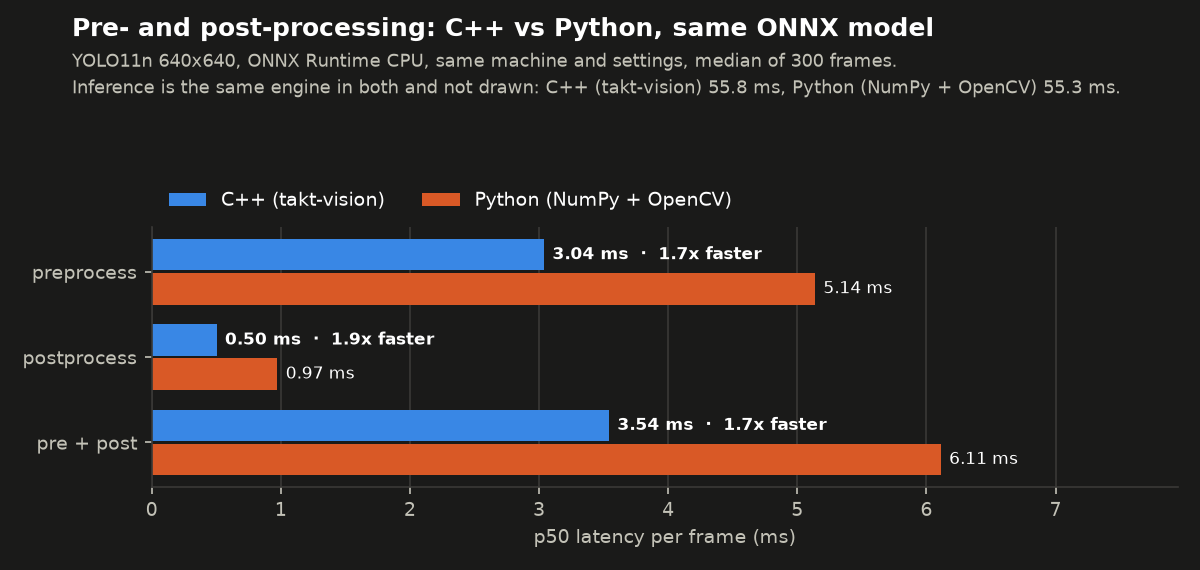
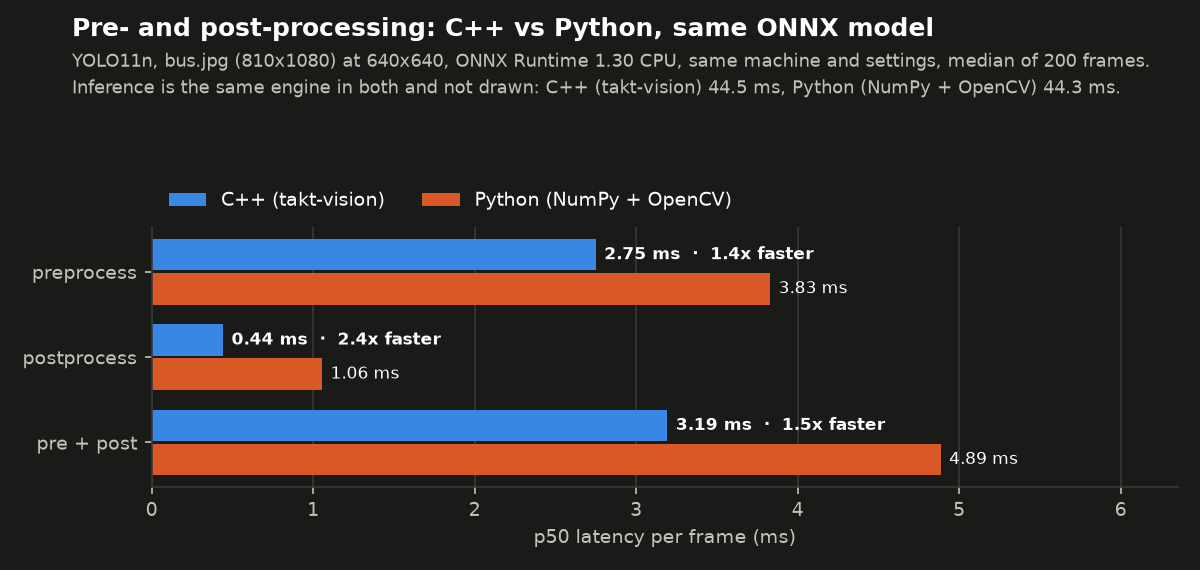
README: C++ vs Python across YOLO11n/s/m, all results from one CI run
- new chart: per-frame latency by model size, stacked by stage, bars labelled
  with their own value and the time C++ saves in the stages takt implements
- results table: postprocess 2.2-2.5x and preprocess 1.1-1.4x faster in C++;
  the fixed ~1-2 ms saving is 3.4 % of a YOLO11n frame, 0.3 % of YOLO11m
- all charts and numbers republished from one run (AMD EPYC 9V74) and the
  CPU named; overload, pipelining (+5 %) and parity updated accordingly

diff --git a/scripts/plot_latency.py b/scripts/plot_latency.py
@@ -197,11 +197,11 @@ def models(args):
                     ax.barh(y, d[key], left=left, height=0.8, color=color, edgecolor=theme["surface"],
                             linewidth=1, label=legend if (i, j) == (0, 0) else None)
                     left += d[key]
-                text = f"{d['total']:.1f} ms"
+                text = f"{left:.1f} ms"  # the bar: sum of the stage medians
                 if impl == "C++":
                     other = data[model, "Python"]
                     saved = (other["preprocess"] + other["postprocess"]) - (d["preprocess"] + d["postprocess"])
-                    text += f"  ·  {saved:.1f} ms saved outside inference"
+                    text += f"  ·  saves {saved:.1f} ms"
                 ax.annotate(text, xy=(left, y), xytext=(5, 0), textcoords="offset points", va="center",
                             fontsize=8, color=theme["text"], fontweight="bold" if impl == "C++" else "normal")
                 ticks.append(y)
@@ -210,9 +210,11 @@ def models(args):
         ax.invert_yaxis()
         ax.set_xlabel("p50 latency per frame (ms): preprocess + inference + postprocess", color=theme["muted"],
                       fontsize=9)
-        ax.margins(x=0.36)
+        ax.margins(x=0.25)
         fig.suptitle(args.title, x=0.06, y=0.97, ha="left", fontsize=12, fontweight="bold", color=theme["text"])
-        fig.text(0.06, 0.915, args.subtitle, ha="left", va="top", fontsize=8.5, color=theme["muted"],
+        note = 'Bars: sum of stage medians. "saves": time saved in pre + post. Inference differs only by noise.'
+        subtitle = f"{args.subtitle}\n{note}" if args.subtitle else note
+        fig.text(0.06, 0.915, subtitle, ha="left", va="top", fontsize=8.5, color=theme["muted"],
                  linespacing=1.5)
         legend = ax.legend(frameon=False, fontsize=9, loc="lower left", bbox_to_anchor=(0, 1.0), ncol=3)
         for text in legend.get_texts():

diff --git a/README.md b/README.md
@@ -66,44 +66,83 @@ OpenCV (`libopencv-dev`) is optional and enables camera/video input and the over
 
 ## Results
 
-All numbers come from the [Demo & benchmarks](.github/workflows/demo.yml) workflow on a
-GitHub-hosted runner (4 vCPU AMD EPYC 7763, Ubuntu 24.04, ONNX Runtime 1.30 CPU).
+Every number and chart below comes from a single run of the
+[Demo & benchmarks](.github/workflows/demo.yml) workflow on a GitHub-hosted runner: 4 vCPU AMD
+EPYC 9V74, Ubuntu 24.04, ONNX Runtime 1.30 on CPU. GitHub assigns different CPU models to
+different runs, so numbers are only compared within one run. An earlier run on an EPYC 7763
+measured the same effects with slightly different magnitudes.
 
-**Latency under overload** (camera 30 fps, detector 40 ms ≈ 25 fps, 20 s):
+### C++ vs Python
+
+Both sides run the same ONNX model through the same ONNX Runtime engine and settings on the same
+image (`bus.jpg`, 810×1080 → 640×640), 200 timed frames each. The Python baseline is typical
+deployment code: `cv2.resize` + `copyMakeBorder` + NumPy for preprocessing, NumPy decoding and
+`cv2.dnn.NMSBoxesBatched` for postprocessing.
+
+<picture>
+  <source media="(prefers-color-scheme: dark)" srcset="docs/assets/cpp_vs_python-dark.png">
+  <img alt="Median preprocessing and postprocessing time per frame, C++ versus Python, on YOLO11n: preprocessing 2.75 vs 3.83 ms, postprocessing 0.44 vs 1.06 ms" src="docs/assets/cpp_vs_python-light.png">
+</picture>
+
+<picture>
+  <source media="(prefers-color-scheme: dark)" srcset="docs/assets/model_sizes-dark.png">
+  <img alt="Per-frame latency by model size, C++ versus Python, stacked by stage: inference dominates and is identical, the C++ saving in preprocessing and postprocessing stays about 1-2 ms" src="docs/assets/model_sizes-light.png">
+</picture>
+
+| Model | Inference, C++ / Python | Pre + post, C++ | Pre + post, Python | Speed-up (pre + post) | Saved per frame |
+|---|---:|---:|---:|---:|---:|
+| YOLO11n | 44.5 / 44.3 ms | 3.19 ms | 4.89 ms | 1.5× | 1.69 ms (3.4 % of the frame) |
+| YOLO11s | 114.7 / 114.2 ms | 3.19 ms | 4.80 ms | 1.5× | 1.61 ms (1.4 % of the frame) |
+| YOLO11m | 331.8 / 329.1 ms | 3.13 ms | 4.03 ms | 1.3× | 0.91 ms (0.3 % of the frame) |
+
+What this shows:
+
+- **Postprocessing is 2.2-2.5× faster in C++** (0.44 ms vs ~1.0 ms): class-major decoding and
+  allocation-free NMS against NumPy plus OpenCV's NMS.
+- **Preprocessing is 1.1-1.4× faster.** takt's fused letterbox is still scalar code, while
+  `cv2.resize` is SIMD-optimised. The margin is narrower than the 1.7× measured on the older
+  EPYC 7763, where NumPy and OpenCV benefit less from wide vector units. A vectorised letterbox
+  is the next item in the [plan](docs/IMPLEMENTATION_PLAN.md).
+- **Inference is identical** by construction (differences are run-to-run noise, under 1 %). The
+  ~1-2 ms C++ saving is fixed per frame, so it matters most for small, fast models: 3.4 % of a
+  YOLO11n frame, 0.3 % of a YOLO11m frame.
+
+The honest summary: for a single model on a CPU, rewriting the glue in C++ buys a few percent.
+takt-vision's bigger contribution is the runtime around inference: bounded latency under load,
+no allocations, and measured tails.
+
+### Latency under overload
+
+Camera 30 fps, detector 40 ms (≈ 25 fps), 20 s. The chart at the top of this page.
 
 | Ingress policy | End-to-end p50 | p99 | Frames dropped |
 |---|---:|---:|---:|
 | `latest` (default) | **57 ms** | **74 ms** | 101 / 600 |
 | `drop-newest`, depth 4 | 266 ms | 281 ms | 96 / 600 |
-| unbounded FIFO (`block`, depth 256) | 2,081 ms, still growing | 4,096 ms | 0 / 600 |
+| unbounded FIFO (`block`, depth 256) | 2,081 ms, still growing | 4,063 ms | 0 / 600 |
 
 With `latest`, a frame waits on average half an inference period plus one inference: the
 theoretical floor for a single detector.
 
-**Correctness vs. Ultralytics** (same ONNX model, `scripts/check_parity.py`): every detection
-matches one-to-one on a portrait and a landscape test image. Boxes agree within **0.55 px** of
-the 640×640 model input (worst case) and scores within **0.004**. The residual comes from OpenCV's
-8-bit resize versus takt's float resize ([investigation](docs/DESIGN_NOTES.md#parity)).
+### Pipelined vs sequential
 
-**Engineering checks on every push:** 86 tests pass on x86-64 and ARM64. ThreadSanitizer
-reports no races across 80 tests, AddressSanitizer and UBSan are clean, and the steady-state
-pipeline makes **0 heap allocations per frame** across all threads.
+Offline on a 795-frame video with YOLO11n: **21.6 fps pipelined vs 20.6 fps sequential (+5 %)**.
+The gain is small because inference is ~93 % of each frame and competes with the other stages
+for the same four cores. The maximum possible gain is (sum of stages) / (slowest stage), which
+is about 1.07× here ([design notes](docs/DESIGN_NOTES.md#pipelining)).
 
-<picture>
-  <source media="(prefers-color-scheme: dark)" srcset="docs/assets/cpp_vs_python-dark.png">
-  <img alt="Per-stage median latency of the C++ pipeline versus an equivalent Python pipeline on the same YOLO11n ONNX model" src="docs/assets/cpp_vs_python-light.png">
-</picture>
+### Correctness vs Ultralytics
 
-*Same model, same ONNX Runtime settings, same machine. Inference is identical by construction.
-takt-vision is 1.7× faster on the stages it implements: 3.5 ms vs 6.1 ms per frame, most of it the
-fused letterbox. The Python baseline is not naive (its resize and NMS already run in OpenCV's
-C++), so this is the honest size of the win. A SIMD letterbox is next in the plan.*
+Same ONNX model, `scripts/check_parity.py`, run in CI: every detection matches one-to-one on a
+portrait and a landscape test image. Boxes agree within **0.55 px** of the 640×640 model input
+(worst case) and scores within **0.004**. The residual comes from OpenCV's 8-bit resize versus
+takt's float resize ([investigation](docs/DESIGN_NOTES.md#parity)).
 
-**When does pipelining pay off?** On this 4-vCPU runner, pipelined and sequential throughput are
-equal (17.0 vs 16.9 fps): CPU inference is ~93 % of each frame and competes with the other stages
-for the same cores. Pipelining pays off when inference is offloaded from the CPU (for example
-to a GPU) and the CPU stages become the bottleneck, which is outside this CPU-only benchmark
-([design notes](docs/DESIGN_NOTES.md#pipelining)).
+### Engineering checks on every push
+
+86 tests pass on x86-64 and ARM64. ThreadSanitizer reports no races across 80 tests,
+AddressSanitizer and UBSan are clean, and the steady-state pipeline makes **0 heap allocations
+per frame** across all threads, checked 20 times per run.
 
 ## How it works
 

diff --git a/docs/IMPLEMENTATION_PLAN.md b/docs/IMPLEMENTATION_PLAN.md
@@ -66,10 +66,12 @@ engineering lives. Inference engines plug into it.
 
 - ✅ Overload experiment (camera faster than detector) and chart, fully reproducible in CI:
   `latest` holds 57 ms p50 / 74 ms p99 with a 40 ms detector; an unbounded FIFO grows past 4 s
-- ✅ C++ vs Python stage comparison on the same model and machine: pre + post 3.5 ms vs 6.1 ms (1.7×)
+- ✅ C++ vs Python stage comparison on the same model and machine: pre + post 1.5× (EPYC 9V74) to
+  1.7× (EPYC 7763) faster
 - ✅ Pipelined vs sequential on a 4-vCPU CPU-only runner: no gain (17.0 vs 16.9 fps), explained in
   DESIGN_NOTES §15
-- ⬜ C++ vs Python across model sizes (YOLO11n / s / m): how the gap changes as inference grows
+- ✅ C++ vs Python across model sizes (YOLO11n / s / m): postprocess 2.2-2.5×, preprocess 1.1-1.4×
+  faster in C++; the fixed ~1-2 ms saving is 3.4 % of a YOLO11n frame and 0.3 % of a YOLO11m frame
 - ⬜ End to end on a video: takt_run vs an equivalent Python loop, throughput and p50/p99 latency
 - ⬜ `allow_spinning` on/off and `--threads` sweep with identical settings on both sides: does ORT's
   spin-waiting steal cores from the other pipeline stages? (Measure, then decide the default.)
@@ -114,6 +116,6 @@ Details and recording instructions: [DEMOS.md](DEMOS.md).
 > Built **takt-vision**, a multi-threaded C++20 inference pipeline for real-time vision (lock-free
 > SPSC/triple-buffer hand-offs, zero steady-state heap allocations, ONNX Runtime backend,
 > ByteTrack tracking). Bounded end-to-end latency under overload (57 ms p50 / 74 ms p99 with a
-> 40 ms detector, vs. >4 s for a naive queue) and 1.7× faster pre/post-processing than the
+> 40 ms detector, vs. >4 s for a naive queue) and 1.5× faster pre/post-processing than the
 > equivalent Python pipeline; CI on x86-64 and ARM64 with ASan, UBSan and TSan.
 

diff --git a/docs/DESIGN_NOTES.md b/docs/DESIGN_NOTES.md
@@ -219,7 +219,8 @@ spinning × thread count on the benchmark machine and sets the default from the 
 ## 15. When does pipelining pay off?
 
 Measured in CI (4 vCPU, YOLO11n on ONNX Runtime CPU, offline video with `--policy block`):
-pipelined **17.0 fps** vs sequential **16.9 fps**, so no gain. Inference is ~55 ms of a ~59 ms
+pipelined **17.0 fps** vs sequential **16.9 fps** on an EPYC 7763, and **21.6 vs 20.6 fps (+5 %)**
+on an EPYC 9V74, so little to no gain. Inference is ~55 ms of a ~59 ms
 frame, and with stages on separate threads it slows slightly (~59 ms) because the other stages
 compete for the same four cores.
 
